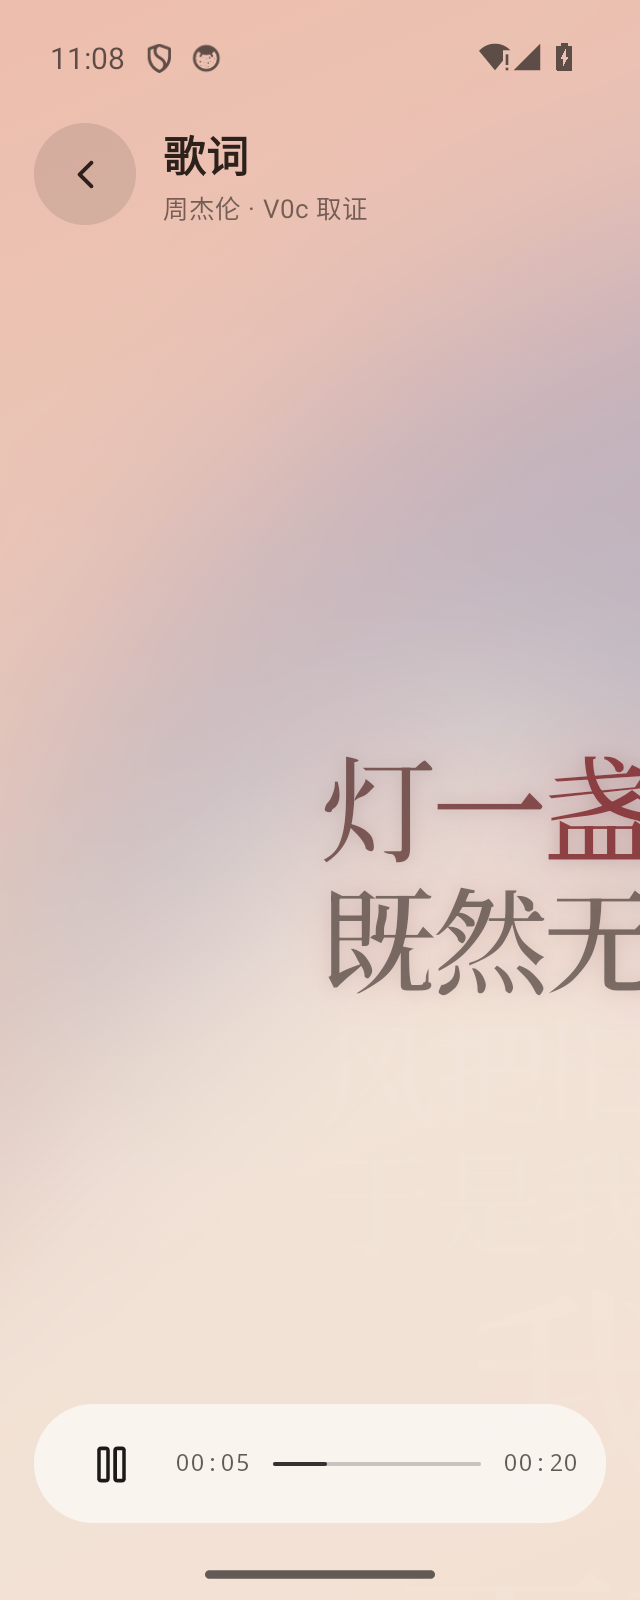
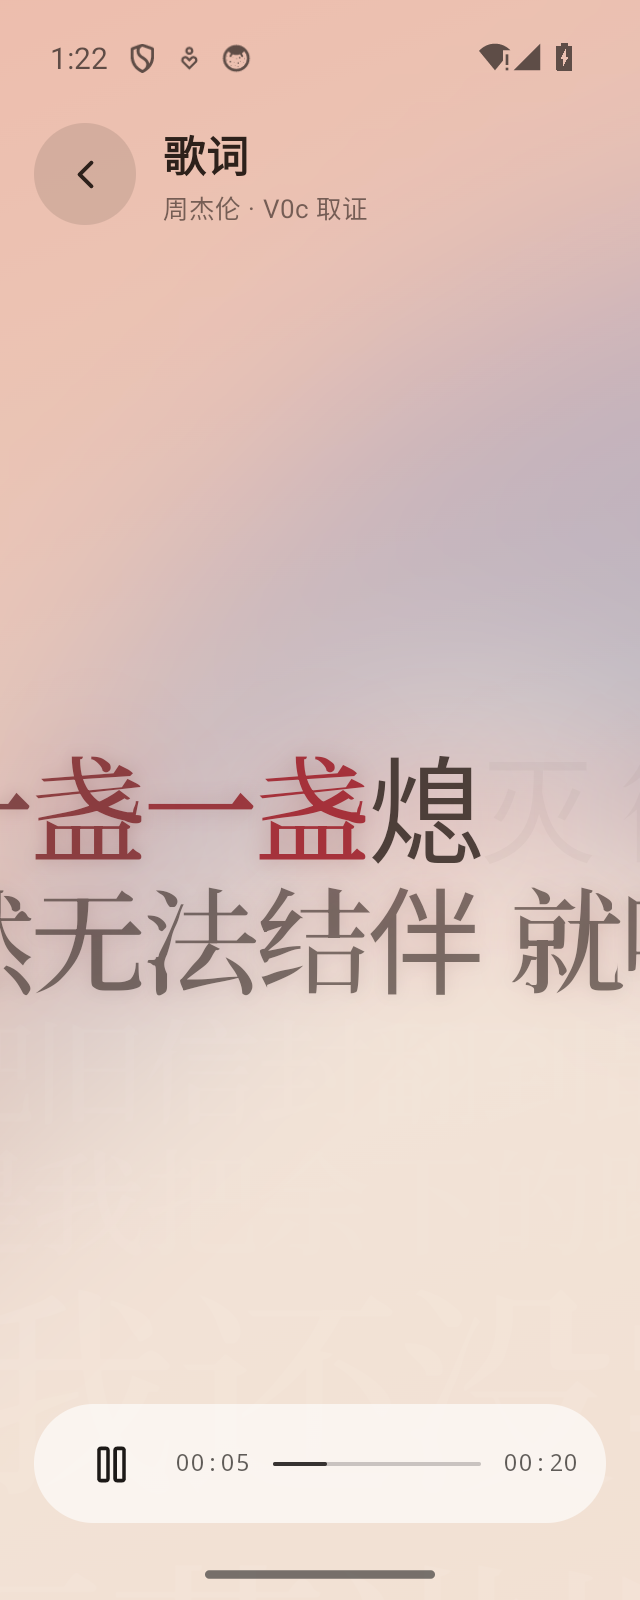
V1a-fix2: 镜头焦点跟字 + 补拍

Changed region(s): [[0.0, 0.4688, 1.0, 0.625], [0.125, 0.0312, 0.4062, 0.0625], [0.0, 0.5, 0.0312, 0.5312]]

diff --git a/core/lyrics/src/test/kotlin/com/guangyue/core/lyrics/fume/FumeCameraTest.kt b/core/lyrics/src/test/kotlin/com/guangyue/core/lyrics/fume/FumeCameraTest.kt
@@ -55,13 +55,20 @@ class FumeCameraTest {
         )
     }
 
-    private fun renderLine(start: Int, end: Int, left: Double, width: Double, step: Double) =
+    private fun renderLine(
+        start: Int,
+        end: Int,
+        left: Double,
+        width: Double,
+        step: Double,
+        graphemeCount: Int = 0,
+    ) =
         FumeRenderLine(
             id = "l",
             text = "",
             start = start,
             end = end,
-            graphemes = List(end - start) { "字" },
+            graphemes = List(if (graphemeCount > 0) graphemeCount else end - start) { "字" },
             glyphOffsets = List(end - start) { it * step },
             segments = emptyList(),
             left = left,
@@ -86,10 +93,11 @@ class FumeCameraTest {
     @Test
     fun `smooth focus point is continuous in the printed progress`() {
         val target = block(renderLines = listOf(renderLine(0, 4, left = 4.0, width = 200.0, step = 20.0)))
+        // 行宽 200 按 4 个字素均分，每档 50；144=行中线（镜头应当正对正在唱的字）。
         val half = FumeCamera.smoothBlockFocusPoint(target, 2.0)
-        assertEquals(144.0, half.x, 1e-6)
+        assertEquals(204.0, half.x, 1e-6)
         val quarter = FumeCamera.smoothBlockFocusPoint(target, 1.5)
-        assertEquals(134.0, quarter.x, 1e-6)
+        assertEquals(179.0, quarter.x, 1e-6)
     }
 
     @Test
@@ -173,6 +181,98 @@ class FumeCameraTest {
         // 播到 4s 时已经离开 overview，靠近第一个块。
         val blockCenterY = 200.0 + 26.0 * 0.5
         assertTrue(Math.abs(state.camera.y - blockCenterY) < 200.0)
+    }
+
+    // ---- V1a-fix2：镜头焦点必须跟着「正在唱的字」走 ----
+    // 症状：实拍里当前句行首永远落在屏幕中线，正在唱的字贴到右边缘（320dp 下被切掉一半），
+    // 对应 printedProgress=0（= block.x+line.left）。下面三条把整条链子锁住。
+
+    /**
+     * 第二句 8s 起唱、4s 长；块文本 5 个字素，首行只排前 4 个（0..4），末字落到第二行。
+     * 用来验证「按行起点换算行内偏移」而不是拿行内序号去索引块内 advances。
+     */
+    private fun secondLineBlock(): FumeBlock = block(
+        id = "b1",
+        text = "纪念我死去爱",
+        start = 8.0,
+        end = 12.0,
+        renderLines = listOf(renderLine(0, 4, left = 4.0, width = 200.0, step = 20.0)),
+    )
+
+    /** 块起点在时间轴上：起唱 8s、结束 12s（4 个字素各占 1s）。 */
+    private fun secondLineBlock(startTime: Double = 8.0): FumeBlock = block(
+        id = "b1",
+        text = "纪念我死去爱",
+        start = startTime,
+        end = startTime + 4.0,
+        renderLines = listOf(renderLine(0, 4, left = 4.0, width = 200.0, step = 20.0)),
+    )
+
+    private fun settleCameraAt(article: FumeArticleLayout, block: FumeBlock, time: Double): FumeCameraTarget {
+        var state = FumeCameraStep.syncToArticle(FumeCameraStep.initialState(), article)
+        repeat(24) {
+            state = FumeCameraStep.step(
+                state,
+                FumeCameraStepInput(
+                    article = article,
+                    time = time,
+                    nowMs = 0.0,
+                    dt = 1.0 / 60.0,
+                    lineIndex = block.sourceLineIndex,
+                    viewport = FumeViewport(720.0, 1600.0),
+                    overviewCamera = null,
+                    overviewStartTime = Double.MAX_VALUE,
+                    cameraSpeed = 1.0,
+                    cameraTrackingMode = FumeCameraTrackingMode.SMOOTH,
+                    staticMode = true,
+                    intensity = AnimationIntensity.NORMAL,
+                    line = block.line,
+                    nextLineStartTime = null,
+                ),
+            ).first
+        }
+        return state.camera
+    }
+
+    @Test
+    fun `smooth focus point walks past the line head as printing progresses`() {
+        val target = block(renderLines = listOf(renderLine(0, 4, left = 4.0, width = 200.0, step = 20.0)))
+        // 行首：printedProgress=0 → 只剩 block.x + line.left。
+        assertEquals(104.0, FumeCamera.smoothBlockFocusPoint(target, 0.0).x, 1e-6)
+        // 唱到第 4 个字：104 + 4×50（行宽 200 按 4 个字素均分，第 4 个字左缘即行右缘）。
+        assertEquals(304.0, FumeCamera.smoothBlockFocusPoint(target, 4.0).x, 1e-6)
+        // 再往后夹在行右缘，绝不回到行首。
+        assertEquals(304.0, FumeCamera.smoothBlockFocusPoint(target, 4.5).x, 1e-6)
+        // 再往后夹在行右缘 204，绝不回到行首。
+        assertEquals(304.0, FumeCamera.smoothBlockFocusPoint(target, 9.5).x, 1e-6)
+    }
+
+    @Test
+    fun `smooth focus point measures width from the line start offset`() {
+        // 首行从块内 0 开始，末字（块内第 4 个）在第二行：靠行起点换算，不拿行内序号索引。
+        val target = secondLineBlock()
+        val lineLeft = target.x + target.renderLines.single().left
+        assertEquals(lineLeft, FumeCamera.smoothBlockFocusPoint(target, 0.0).x, 1e-6)
+        // 行宽 200 按 4 个字素均分，每档 50。
+        assertEquals(lineLeft + 100.0, FumeCamera.smoothBlockFocusPoint(target, 2.0).x, 1e-6)
+        assertEquals(lineLeft + 200.0, FumeCamera.smoothBlockFocusPoint(target, 4.0).x, 1e-6)
+    }
+
+    @Test
+    fun `static settle camera follows the printed progress of that instant`() {
+        val article = articleOf(listOf(secondLineBlock()))
+        val target = article.blocks.single()
+        val lineLeft = target.x + target.renderLines.single().left
+
+        // 句中 10s（8s 起唱）：必须离开行首，往右走了 2 个字宽（advances 全是 fontPx=20）。
+        val mid = settleCameraAt(article, target, 10.0)
+        assertTrue("镜头停在行首 (x=${mid.x})，没有跟字", mid.x > lineLeft + 20.0)
+        assertEquals(lineLeft + 200.0, mid.x, 1e-3)
+        assertEquals(FumeCamera.cameraScaleForBlock(target, FumeViewport(720.0, 1600.0)), mid.scale, 1e-6)
+
+        // 刚起唱一小会儿就必须已经离开行首。
+        val early = settleCameraAt(article, target, 8.5)
+        assertTrue("起唱 0.5s 后镜头仍停在行首 (x=${early.x})", early.x > lineLeft + 5.0)
     }
 
     /** 构造一个最小可用的文章，方便镜头单测。 */

diff --git a/core/lyrics/src/main/kotlin/com/guangyue/core/lyrics/fume/FumeCamera.kt b/core/lyrics/src/main/kotlin/com/guangyue/core/lyrics/fume/FumeCamera.kt
@@ -49,26 +49,40 @@ object FumeCamera {
         if (block.renderLines.isEmpty()) {
             return FumeCameraViewTarget(block.x + block.width * 0.5, block.y + block.height * 0.5, 1.0)
         }
-        val effectiveOffset = FumeMath.clamp(printedProgress, 0.0, block.graphemes.size.toDouble())
+        // 上限按最后一行行尾：句末标点常被并进上一行，按字素数夹会让最后几个字走不到。
+        val maxOffset = maxOf(block.graphemes.size.toDouble(), block.renderLines.last().end.toDouble())
+        val effectiveOffset = FumeMath.clamp(printedProgress, 0.0, maxOffset)
 
         fun pointOnLine(lineIndex: Int, offset: Double): FumeCameraViewTarget {
             val line = block.renderLines[lineIndex]
             val clampedOffset = FumeMath.clamp(offset, line.start.toDouble(), line.end.toDouble())
-            val baseOffset = Math.floor(clampedOffset).toInt()
-            val fractional = clampedOffset - baseOffset
-            val baseWidth = block.widthBetweenOffsets(line.start, baseOffset)
-            val localGlyphIndex = baseOffset - line.start
-            val glyphAdvance = line.glyphAdvance(localGlyphIndex)
+            // V1a-fix2：焦点落在「正在唱的那个字」上，而不是永远停在行首。
+            // 见 FumeMath.offsetAnchorX（按该字素在行内的实际 x 取点）。
+            val lineLocal = (clampedOffset - line.start).coerceIn(0.0, line.graphemes.size.toDouble())
+            val whole = Math.floor(lineLocal).toInt()
+            val fractional = lineLocal - whole
+            // 正在唱的这个字素在行内的左右边（字素尺上相邻两档）。
+            val anchorLeft = FumeMath.offsetAnchorX(
+                lineOffset = whole.toDouble(),
+                lineWidth = line.width,
+                graphemeCount = line.graphemes.size,
+            )
+            val anchorRight = FumeMath.offsetAnchorX(
+                lineOffset = (whole + 1).toDouble(),
+                lineWidth = line.width,
+                graphemeCount = line.graphemes.size,
+            )
+            val anchor = anchorLeft + (anchorRight - anchorLeft) * fractional
             val minX = block.x + line.left
             val maxX = minX + line.width
             return FumeCameraViewTarget(
-                x = FumeMath.clamp(minX + baseWidth + glyphAdvance * fractional, minX, maxX),
+                x = FumeMath.clamp(minX + anchor, minX, maxX),
                 y = block.y + line.top + block.lineHeight * 0.5,
                 scale = 1.0,
             )
         }
 
-        val targetLineIndex = block.renderLines.indexOfFirst { effectiveOffset <= it.end }
+        val targetLineIndex = block.renderLines.indexOfFirst { effectiveOffset < it.end }
             .let { if (it < 0) block.renderLines.size - 1 else it }
         val targetLine = block.renderLines[targetLineIndex]
         var point = pointOnLine(targetLineIndex, effectiveOffset)
@@ -365,7 +379,8 @@ object FumeCameraStep {
             val focusPoint = if (input.cameraTrackingMode == FumeCameraTrackingMode.STEPPED) {
                 FumeCamera.steppedBlockFocusPoint(focusBlock, printedCount)
             } else {
-                val progress = FumeReveal.printedGraphemeProgress(focusBlock, input.time)
+                // V1a-fix2：镜头要跟「正在唱的字」，进度必须连续（含小数），不能用整字数。
+                val progress = FumeReveal.continuousPrintedGraphemeProgress(focusBlock, input.time)
                 FumeCamera.smoothBlockFocusPoint(focusBlock, progress)
             }
             targetX = focusPoint.x
@@ -375,6 +390,9 @@ object FumeCameraStep {
             if (retarget.sourceLineIndex != focusBlock.sourceLineIndex) {
                 val line = input.line ?: focusBlock.line
                 val duration = FumeMath.clamp(FumeCamera.cameraRetargetDuration(line) / cameraSpeed, 0.03, 0.3)
+                // V1a-fix2：起点必须是「此刻镜头所在」，也必须是「此刻的焦点」。
+                // 原来的 copy 沿用上一轮的 startedAt / fromX，导致新的一句永远从旧起点起跳、
+                // 重定向相位卡在 0，镜头被 entryFocusBias=1 拽回句首（实拍里行首死压中线就是这个）。
                 retarget = retarget.copy(
                     sourceLineIndex = focusBlock.sourceLineIndex,
                     startedAt = input.time,
@@ -396,7 +414,13 @@ object FumeCameraStep {
         }
 
         val retargetElapsed = maxOf(input.time - retarget.startedAt, 0.0)
-        val retargetPhase = FumeMath.clamp(retargetElapsed / maxOf(retarget.duration, 0.001), 0.0, 1.0)
+        // V1a-fix2：固定帧推进（取景 harness / reduceMotion）没有真实帧时长，重定向相位永远推不动，
+        // entryFocusBias 恒为 1 就会把镜头钉死在句首。这种模式下转场视为已完成，直接跟正在唱的字。
+        val retargetPhase = if (input.staticMode) {
+            1.0
+        } else {
+            FumeMath.clamp(retargetElapsed / maxOf(retarget.duration, 0.001), 0.0, 1.0)
+        }
         val retargetBoost = 1.0 - FumeMath.easeOutCubic(retargetPhase)
         val entryFocusBias = Math.pow(retargetBoost, 0.58)
         val overviewTextRestoreProgress =

diff --git a/core/lyrics/src/main/kotlin/com/guangyue/core/lyrics/fume/FumeCore.kt b/core/lyrics/src/main/kotlin/com/guangyue/core/lyrics/fume/FumeCore.kt
@@ -82,6 +82,19 @@ object FumeMath {
         }
         return out
     }
+
+    /**
+     * 镜头焦点在行内的 x 锚点（对应 Folia `widthBetweenOffsets(prepared, segmentMetas, 行起点, 已打印偏移)`）。
+     *
+     * 语义：把行宽按字素数均分成 N 档，第 n 个字素的左缘 = 行左缘 + n × (行宽 / N)。
+     * 这样既不会被 glyphOffsets 的结尾缺口带偏（行内 glyphOffsets 少最后一项时行末会缩成 0），
+     * 也不会像旧实现那样恒等于行首（画面里当前句永远压在屏幕中线）。
+     */
+    fun offsetAnchorX(lineOffset: Double, lineWidth: Double, graphemeCount: Int): Double {
+        if (graphemeCount <= 0 || lineWidth <= 0.0) return 0.0
+        val slot = if (graphemeCount > 1) lineWidth / graphemeCount.toDouble() else lineWidth
+        return clamp(lineOffset, 0.0, graphemeCount.toDouble()) * slot
+    }
 }
 
 /** 对应 Folia fumeTypes.ts 的 ViewportSize。 */
@@ -171,7 +184,7 @@ data class FumeRenderSegment(
     val measuredGlyphOffsets: List<Double>,
 )
 
-/** 对应 Folia fumeTypes.ts 的 RenderLineSlice。 */
+/** 兼容别名：镜头等旧代码里用的 `FumeRenderLine`，与 [FumeRenderLineSlice] 同构。 */
 data class FumeRenderLine(
     val id: String,
     val text: String,
@@ -185,6 +198,29 @@ data class FumeRenderLine(
     val width: Double,
 )
 
+/**
+ * 块内字素的 x 位移（从这一行的行起点算）。
+ *
+ * 对应 Folia widthBetweenOffsets(prepared, segmentMetas, from, to) 的行内版本：
+ * 行内 glyphOffsets 只覆盖行内起点，最后一个字素的右边由行宽给出，行尾一律按行宽收口。
+ * 镜头取点必须用它，不能拿块 advances 的整首词拼接去索引（V1a-fix2）。
+ */
+/**
+ * 行内「已打印宽度」：对应 Folia widthBetweenOffsets(prepared, segmentMetas, from, to) 的行内版本。
+ *
+ * - 起点取这一行的行左缘（`line.start` 左侧一律 0）；
+ * - 行内 glyphOffsets 只到行内起点 + 各字素起点，最后一字素的右边由行宽给出；
+ * - 终点在行外（≥ line.end）时按行宽收口，所以「整行打印完」等于行宽。
+ */
+fun FumeRenderLine.blockWidthBetween(fromOffset: Int, toOffset: Int): Double {
+    if (toOffset <= fromOffset) return 0.0
+    fun xAt(blockOffset: Int): Double {
+        val local = (blockOffset - start).coerceIn(0, graphemes.size)
+        return if (local >= graphemes.size) width else offsetOf(local)
+    }
+    return maxOf(xAt(toOffset) - xAt(fromOffset), 0.0)
+}
+
 /** 行内某个字素的位置（resolveRenderLineOffset / resolveSegmentGlyphOffset 的产物）。 */
 fun FumeRenderLine.offsetOf(localOffset: Int): Double = when {
     localOffset <= 0 -> 0.0
@@ -193,10 +229,12 @@ fun FumeRenderLine.offsetOf(localOffset: Int): Double = when {
 }
 
 /** 对应 resolveGlyphAdvance(renderLine, index)：下一个偏移减当前，末尾用行宽。 */
-fun FumeRenderLine.glyphAdvance(localIndex: Int): Double {
-    if (localIndex < 0 || localIndex >= graphemes.size) return 0.0
-    val current = glyphOffsets.getOrElse(localIndex) { 0.0 }
-    val next = glyphOffsets.getOrElse(localIndex + 1) { width }
+fun FumeRenderLine.glyphAdvance(lineLocalIndex: Int): Double {
+    // V1a-fix2：入参是「行内第几个字素」。以前拿它直接去索引 glyphOffsets（那是「行内偏移」），
+    // 首行 start=0 时两者恰好同值，第二行起就整体错位，镜头的小数推进跟着算错。
+    if (lineLocalIndex < 0 || lineLocalIndex >= graphemes.size) return 0.0
+    val current = offsetOf(lineLocalIndex)
+    val next = offsetOf(lineLocalIndex + 1)
     return maxOf(next - current, 0.0)
 }
 

diff --git a/core/lyrics/src/main/kotlin/com/guangyue/core/lyrics/fume/FumeReveal.kt b/core/lyrics/src/main/kotlin/com/guangyue/core/lyrics/fume/FumeReveal.kt
@@ -143,6 +143,47 @@ object FumeReveal {
         return FumeMath.clamp(printed, 0.0, graphemeCount.toDouble())
     }
 
+    /**
+     * 对应 Folia 的 `printedGraphemeProgress`（含小数部分）。
+     *
+     * V1a-fix2：以前没有词时间轴的行走 `floor(progress × n)`，等于把进度量化到整字 ——
+     * 镜头于是停在第一个字的左边缘（渲染却按连续宽度推进），实拍表现为「行首永远压在中线、
+     * 正在唱的字贴到屏幕右边」。这里改成连续值，并让第一个字在起唱瞬间就带一点进度，
+     * 与 [printedGraphemeCount]（`+1` 的离散语义）保持一致。
+     */
+    fun continuousPrintedGraphemeProgress(
+        line: Line,
+        wordRanges: List<FumeWordRange>,
+        graphemeCount: Int,
+        currentTime: Double,
+    ): Double {
+        if (graphemeCount == 0) return 0.0
+        if (currentTime < line.startTime) return 0.0
+        if (hasRevealCompletedByLineEnd(line, currentTime)) return graphemeCount.toDouble()
+
+        if (wordRanges.isEmpty()) {
+            val duration = maxOf(line.endTime - line.startTime, 0.12)
+            val progress = FumeMath.clamp((currentTime - line.startTime) / duration, 0.0, 1.0)
+            return FumeMath.clamp(progress * graphemeCount + if (progress > 0.0) 1.0 else 0.0, 0.0, graphemeCount.toDouble())
+        }
+
+        var printed = 0.0
+        for (range in wordRanges) {
+            if (currentTime < range.word.startTime) break
+            val length = maxOf(range.end - range.start, 0)
+            val rangeProgress = wordRevealProgress(range, currentTime)
+            printed = range.start + rangeProgress * length
+            // 这个词还没打完 → 连续进度就停在这里（含小数）；
+            // 打完了继续累加到下一个词。两者都由 rangeProgress 决定，不再用「整字数」的直觉。
+            if (rangeProgress < 1.0) return FumeMath.clamp(printed, 0.0, graphemeCount.toDouble())
+        }
+        return FumeMath.clamp(printed, 0.0, graphemeCount.toDouble())
+    }
+
+    /** 块版本：镜头跟随用（连续，含小数）。 */
+    fun continuousPrintedGraphemeProgress(block: FumeBlock, currentTime: Double): Double =
+        continuousPrintedGraphemeProgress(block.line, block.wordRanges, block.graphemes.size, currentTime)
+
     /** 块版本：绘制层与镜头直接拿 block 用。 */
     fun printedGraphemeCount(block: FumeBlock, currentTime: Double): Int =
         printedGraphemeCount(block.line, block.wordRanges, block.graphemes.size, currentTime)
